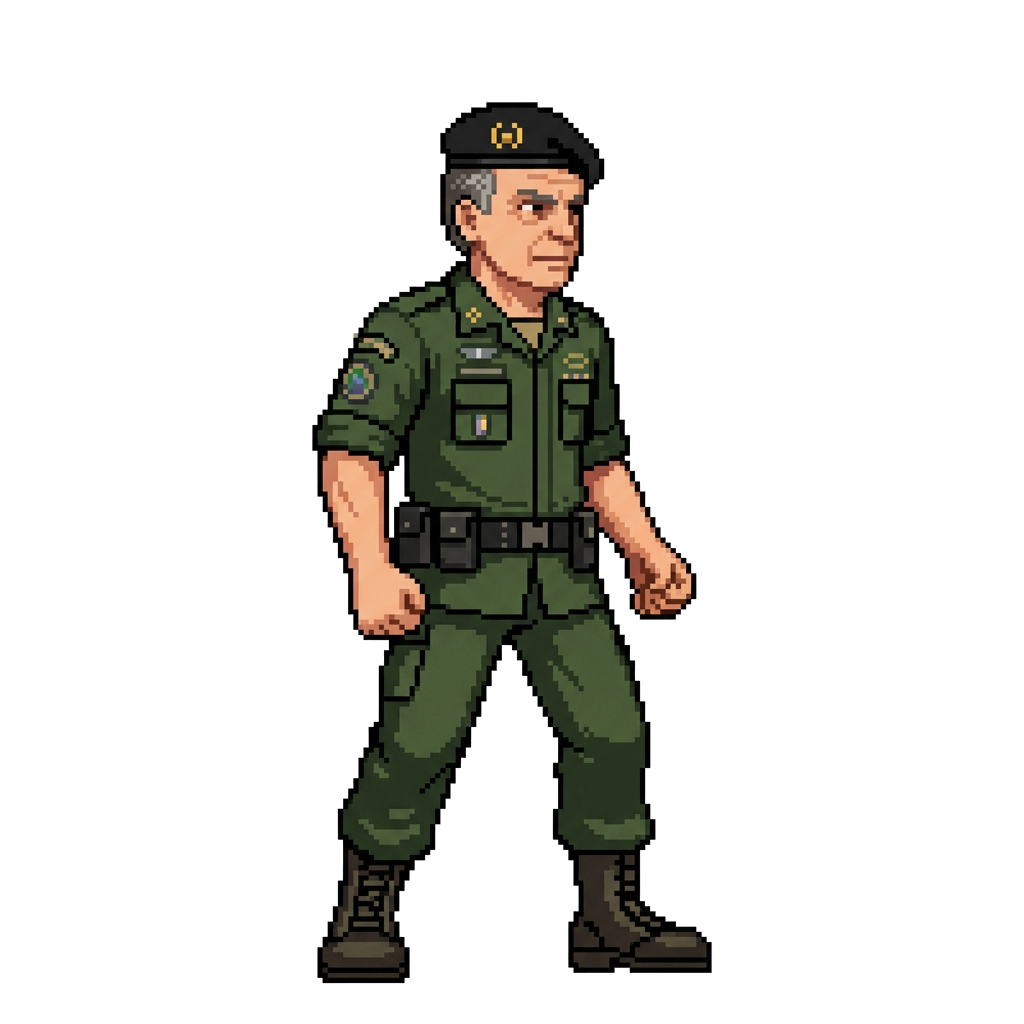
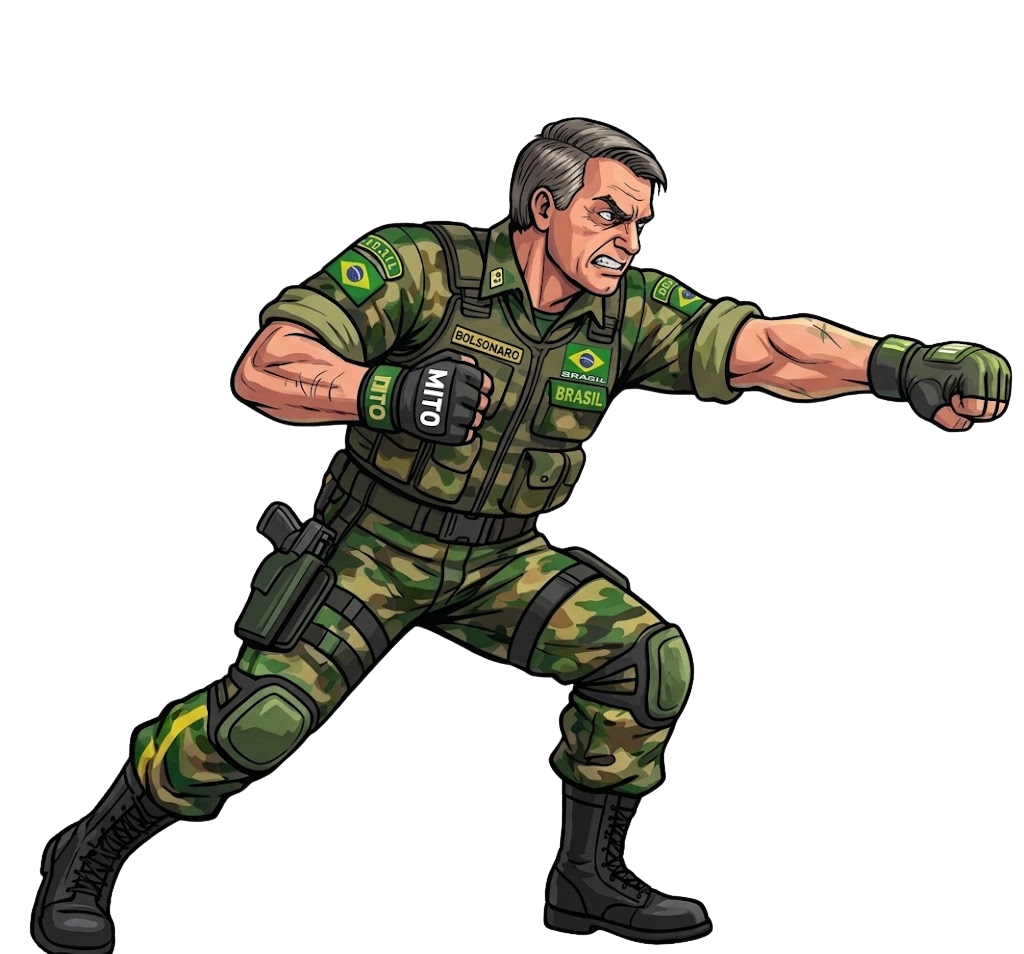
feat: Aplica as novas ilustracoes de alta qualidade dos personagens enviadas pelo usuario

Changed region(s): [[0.0312, 0.0912, 1.0, 1.0]]

diff --git a/process_heroes.js b/process_heroes.js
@@ -1,0 +1,53 @@
+const { Jimp } = require('jimp');
+const path = require('path');
+
+async function processLula() {
+    const inputFile = 'C:/Users/pp/.gemini/antigravity/brain/a1e7854b-3710-4627-849d-cccd41703e49/.user_uploaded/media_1789333762178.jpg';
+    const outputFile = 'public/games/luta/assets/lula_clean.png';
+    console.log('Processing Lula...');
+    
+    const img = await Jimp.read(inputFile);
+    
+    // Remove black background (RGB close to 0)
+    img.scan(0, 0, img.bitmap.width, img.bitmap.height, function(x, y, idx) {
+        const r = this.bitmap.data[idx + 0];
+        const g = this.bitmap.data[idx + 1];
+        const b = this.bitmap.data[idx + 2];
+        
+        if (r < 20 && g < 20 && b < 20) {
+            this.bitmap.data[idx + 3] = 0; // Transparent
+        }
+    });
+
+    await img.write(outputFile);
+    console.log('Lula saved!');
+}
+
+async function processBolso() {
+    const inputFile = 'C:/Users/pp/.gemini/antigravity/brain/a1e7854b-3710-4627-849d-cccd41703e49/.user_uploaded/media_1789333762246.png';
+    const outputFile = 'public/games/luta/assets/bolso_clean.png';
+    console.log('Processing Bolso...');
+    
+    const img = await Jimp.read(inputFile);
+    
+    // Remove white background (RGB close to 255) if it exists
+    img.scan(0, 0, img.bitmap.width, img.bitmap.height, function(x, y, idx) {
+        const r = this.bitmap.data[idx + 0];
+        const g = this.bitmap.data[idx + 1];
+        const b = this.bitmap.data[idx + 2];
+        
+        if (r > 240 && g > 240 && b > 240) {
+            this.bitmap.data[idx + 3] = 0; // Transparent
+        }
+    });
+
+    await img.write(outputFile);
+    console.log('Bolso saved!');
+}
+
+async function run() {
+    await processLula();
+    await processBolso();
+}
+
+run().catch(console.error);

diff --git a/public/games/luta/luta.css b/public/games/luta/luta.css
@@ -1,4 +1,4 @@
-@import url('https://fonts.googleapis.com/css2?family=Montserrat:ital,wght@0,400;0,700;0,900;1,900&display=swap');
+@import url('https://fonts.googleapis.com/css2?family=Montserrat:ital,wght@0,400;0,700;0,900;1,900&display=swap');
 
 * {
   margin: 0;
@@ -127,8 +127,8 @@ body {
 }
 
 .character {
-  width: 550px;
-  height: 750px;
+  width: 700px;
+  height: 900px;
   background-size: contain;
   background-repeat: no-repeat;
   background-position: center bottom;
@@ -146,20 +146,18 @@ body {
 
 
 
-/* AnimaÃ§Ãµes */
+/* Animações */
 .attacking.left-char {
-  background-image: url('assets/bolso_punch.png');
-  transform: translateX(100px) rotate(5deg);
+  transform: translateX(120px) rotate(5deg) scale(1.05);
 }
 
 .attacking.right-char {
-  background-image: url('assets/lula_punch.png');
-  transform: translateX(-100px) rotate(-5deg);
+  transform: translateX(-120px) rotate(-5deg) scale(1.05);
 }
 
 .hit {
   filter: brightness(2) sepia(1) hue-rotate(-50deg) saturate(5);
-  transform: translateX(-20px) !important;
+  transform: translateX(-30px) !important;
 }
 
 .hit.right-char {
